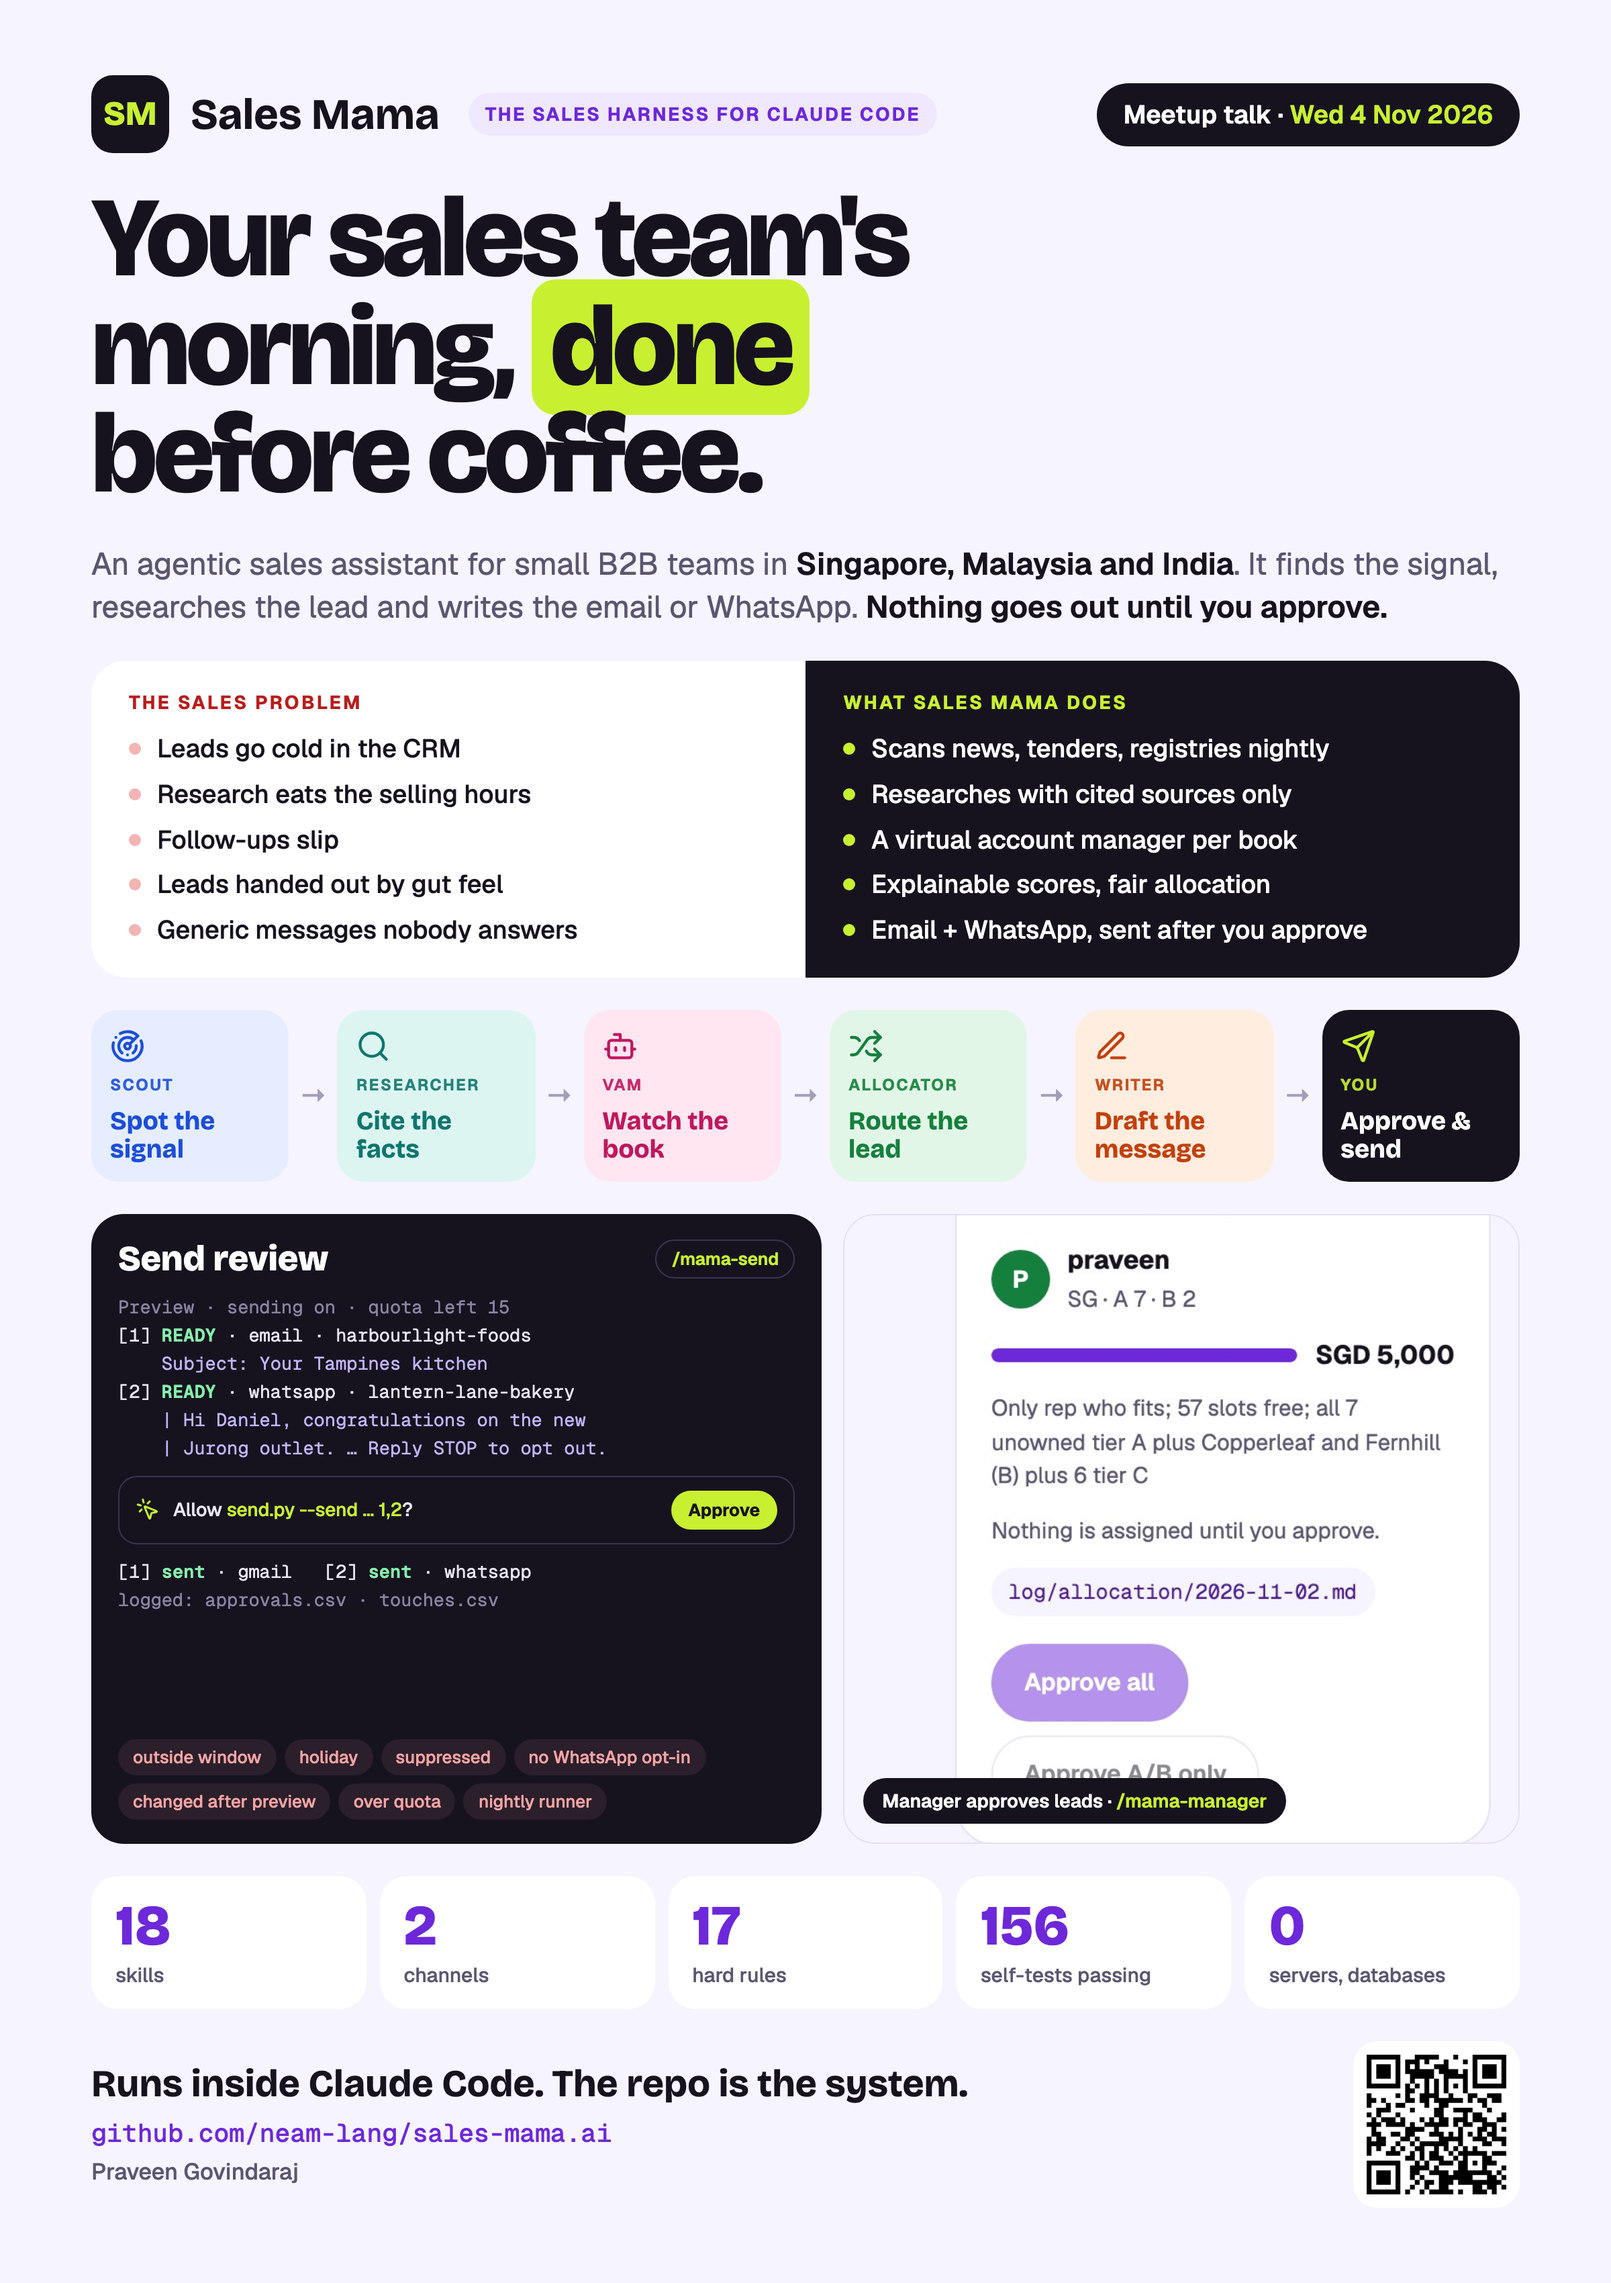
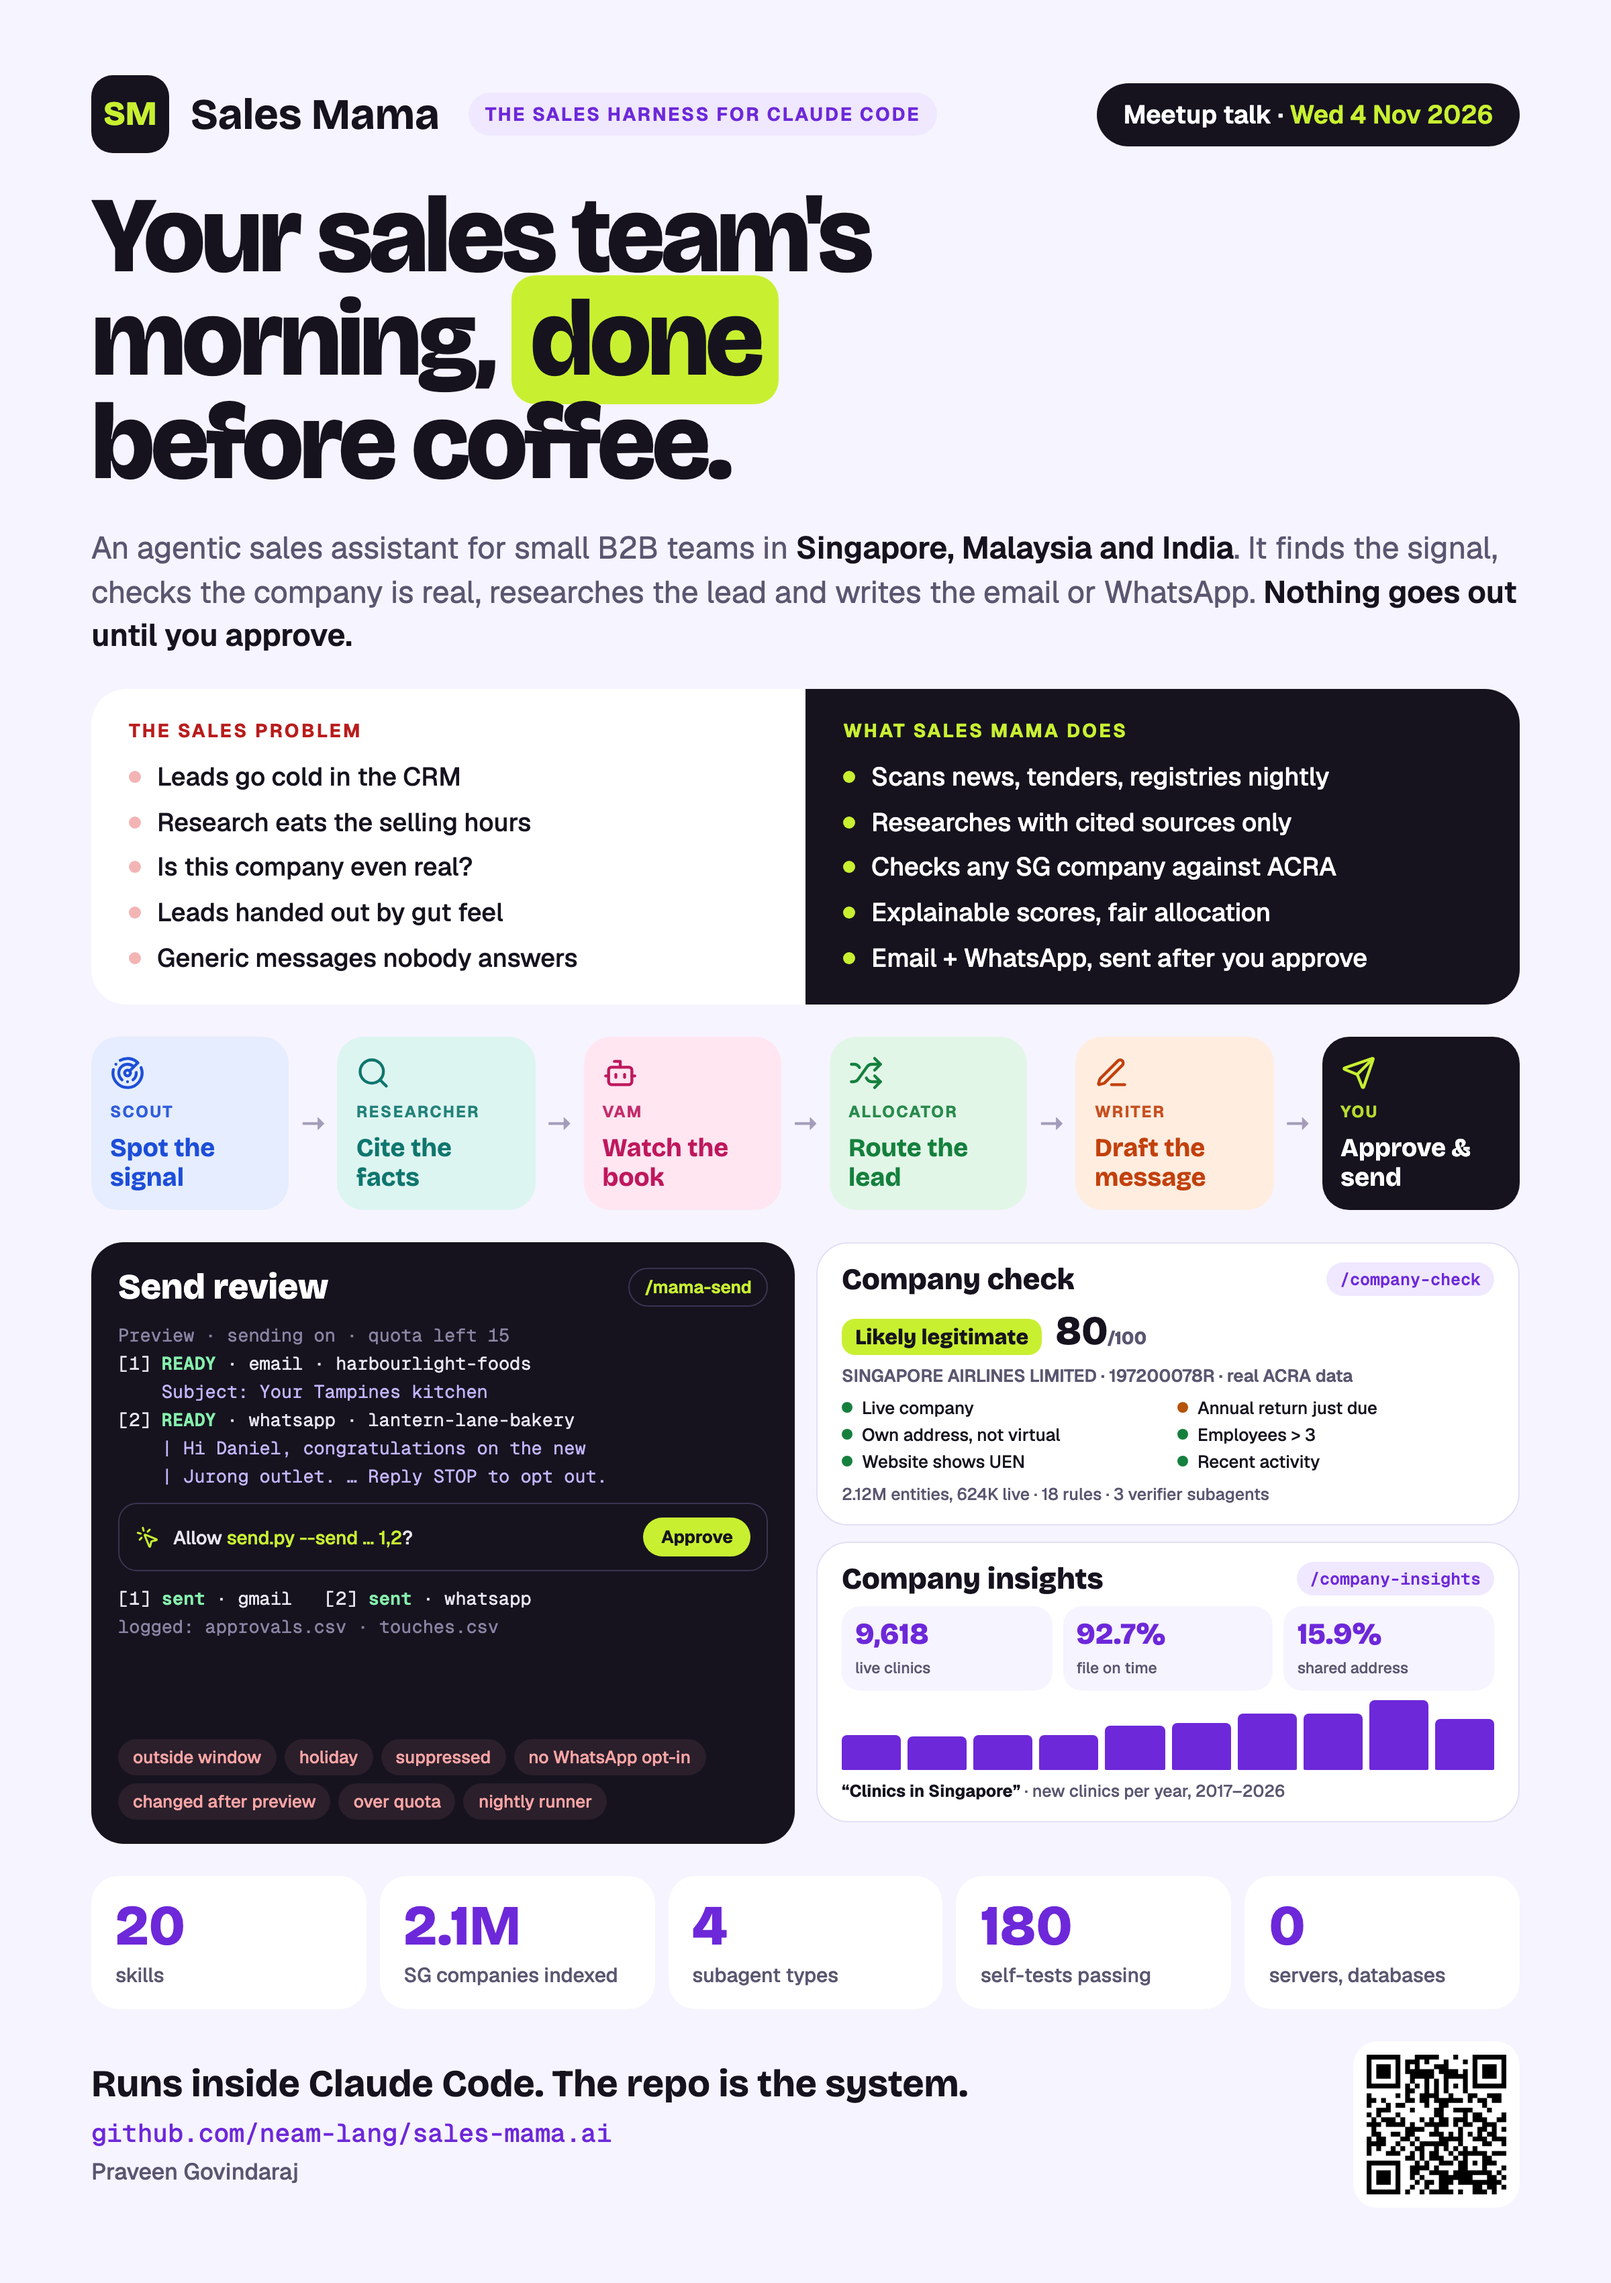
docs: poster with Company check and Company insights; remove README meetup section

diff --git a/docs/assets/src/poster.html b/docs/assets/src/poster.html
@@ -15,7 +15,7 @@
   .logo { width: 58px; height: 58px; border-radius: 16px; background: var(--ink); color: var(--lime); display: grid; place-items: center; font: 800 25px 'Bricolage Grotesque'; }
   .event { font: 600 19px Geist; padding: 11px 20px; border-radius: 999px; background: var(--ink); color: #fff; }
   .event b { color: var(--lime); font-weight: 600; }
-  h1 { font: 800 84px/0.96 'Bricolage Grotesque'; letter-spacing: -3px; }
+  h1 { font: 800 80px/0.96 'Bricolage Grotesque'; letter-spacing: -3px; }
   h1 .hl { background: var(--lime); padding: 0 14px; border-radius: 18px; }
   .sub { font: 400 23px/1.4 Geist; color: var(--muted); }
   .sub b { color: var(--ink); font-weight: 600; }
@@ -38,7 +38,25 @@
   .s3 { background: var(--vam-t); color: var(--vam); } .s4 { background: var(--alo-t); color: var(--alo); }
   .s5 { background: var(--wri-t); color: var(--wri); } .s6 { background: var(--ink); color: var(--lime); }
   .s6 .what { color: #fff; }
-  .feature { display: grid; grid-template-columns: 1.08fr 1fr; gap: 16px; flex: 1; min-height: 0; }
+  .feature { display: grid; grid-template-columns: 1fr 1fr; gap: 16px; flex: 1; min-height: 0; }
+  .stack { display: flex; flex-direction: column; gap: 12px; min-height: 0; overflow: hidden; }
+  .panel { background: #fff; border: 1px solid #E4DFF5; border-radius: 24px; padding: 14px 18px; display: flex; flex-direction: column; gap: 7px; }
+  .panel .t { display: flex; justify-content: space-between; align-items: center; }
+  .panel .t b { font: 800 22px 'Bricolage Grotesque'; }
+  .panel .t span { font: 600 12.5px 'Geist Mono'; color: var(--mama); background: var(--mama-t); padding: 4px 10px; border-radius: 999px; }
+  .vrow { display: flex; align-items: baseline; gap: 10px; }
+  .vbadge { font: 800 16px 'Bricolage Grotesque'; background: var(--lime); padding: 4px 10px; border-radius: 10px; }
+  .vscore { font: 800 30px 'Bricolage Grotesque'; } .vscore small { font-size: 14px; color: var(--muted); }
+  .vname { font: 600 13px Geist; color: var(--muted); }
+  .checks { display: grid; grid-template-columns: 1fr 1fr; gap: 3px 14px; font: 500 13px Geist; }
+  .checks span { display: flex; align-items: center; gap: 7px; }
+  .checks i { width: 8px; height: 8px; border-radius: 50%; flex: none; }
+  .meta { font: 500 12.5px Geist; color: var(--muted); }
+  .kpis { display: grid; grid-template-columns: repeat(3, 1fr); gap: 8px; }
+  .kpi { background: var(--ground); border-radius: 14px; padding: 8px 10px; }
+  .kpi b { display: block; font: 800 22px 'Bricolage Grotesque'; color: var(--mama); } .kpi small { font: 500 11.5px Geist; color: var(--muted); }
+  .bars { display: flex; align-items: flex-end; gap: 5px; height: 52px; }
+  .bars i { flex: 1; background: var(--mama); border-radius: 4px 4px 1px 1px; }
   .term { background: var(--ink); border-radius: 24px; padding: 18px 20px; display: flex; flex-direction: column; gap: 10px; overflow: hidden; color: #E9E6F2; }
   .term .t { display: flex; align-items: center; justify-content: space-between; }
   .term .t b { font: 800 26px 'Bricolage Grotesque'; color: #fff; }
@@ -75,16 +93,16 @@
   <h1>Your sales team's<br>morning, <span class="hl">done</span><br>before coffee.</h1>
 
   <p class="sub">An agentic sales assistant for small B2B teams in <b>Singapore, Malaysia and India</b>.
-    It finds the signal, researches the lead and writes the email or WhatsApp. <b>Nothing goes out until you approve.</b></p>
+    It finds the signal, checks the company is real, researches the lead and writes the email or WhatsApp. <b>Nothing goes out until you approve.</b></p>
 
   <div class="vs">
     <div class="pain">
       <h3>The sales problem</h3>
-      <ul><li>Leads go cold in the CRM</li><li>Research eats the selling hours</li><li>Follow-ups slip</li><li>Leads handed out by gut feel</li><li>Generic messages nobody answers</li></ul>
+      <ul><li>Leads go cold in the CRM</li><li>Research eats the selling hours</li><li>Is this company even real?</li><li>Leads handed out by gut feel</li><li>Generic messages nobody answers</li></ul>
     </div>
     <div class="fix">
       <h3>What Sales Mama does</h3>
-      <ul><li>Scans news, tenders, registries nightly</li><li>Researches with cited sources only</li><li>A virtual account manager per book</li><li>Explainable scores, fair allocation</li><li>Email + WhatsApp, sent after you approve</li></ul>
+      <ul><li>Scans news, tenders, registries nightly</li><li>Researches with cited sources only</li><li>Checks any SG company against ACRA</li><li>Explainable scores, fair allocation</li><li>Email + WhatsApp, sent after you approve</li></ul>
     </div>
   </div>
 
@@ -134,14 +152,32 @@
 <span class="m">logged: approvals.csv · touches.csv</span></pre>
       <div class="chips"><span class="chip">outside window</span><span class="chip">holiday</span><span class="chip">suppressed</span><span class="chip">no WhatsApp opt-in</span><span class="chip">changed after preview</span><span class="chip">over quota</span><span class="chip">nightly runner</span></div>
     </div>
-    <div class="shot"><img src="../screens/mobile-manager.jpg" alt=""><span class="tag">Manager approves leads · <b>/mama-manager</b></span></div>
+    <div class="stack">
+      <div class="panel">
+        <div class="t"><b>Company check</b><span>/company-check</span></div>
+        <div class="vrow"><span class="vbadge">Likely legitimate</span><span class="vscore">80<small>/100</small></span></div>
+        <div class="vname">SINGAPORE AIRLINES LIMITED · 197200078R · real ACRA data</div>
+        <div class="checks">
+          <span><i style="background:#15803D"></i>Live company</span><span><i style="background:#B45309"></i>Annual return just due</span>
+          <span><i style="background:#15803D"></i>Own address, not virtual</span><span><i style="background:#15803D"></i>Employees &gt; 3</span>
+          <span><i style="background:#15803D"></i>Website shows UEN</span><span><i style="background:#15803D"></i>Recent activity</span>
+        </div>
+        <div class="meta">2.12M entities, 624K live · 18 rules · 3 verifier subagents</div>
+      </div>
+      <div class="panel">
+        <div class="t"><b>Company insights</b><span>/company-insights</span></div>
+        <div class="kpis"><div class="kpi"><b>9,618</b><small>live clinics</small></div><div class="kpi"><b>92.7%</b><small>file on time</small></div><div class="kpi"><b>15.9%</b><small>shared address</small></div></div>
+        <div class="bars" role="img" aria-label="New clinics per year 2017 to 2026"><i style="height:49%"></i><i style="height:47%"></i><i style="height:50%"></i><i style="height:50%"></i><i style="height:64%"></i><i style="height:68%"></i><i style="height:81%"></i><i style="height:81%"></i><i style="height:100%"></i><i style="height:73%"></i></div>
+        <div class="meta"><b style="color:var(--ink)">“Clinics in Singapore”</b> · new clinics per year, 2017–2026</div>
+      </div>
+    </div>
   </div>
 
   <div class="stats">
-    <div class="stat"><div class="n">18</div><div class="l">skills</div></div>
-    <div class="stat"><div class="n">2</div><div class="l">channels</div></div>
-    <div class="stat"><div class="n">17</div><div class="l">hard rules</div></div>
-    <div class="stat"><div class="n">156</div><div class="l">self-tests passing</div></div>
+    <div class="stat"><div class="n">20</div><div class="l">skills</div></div>
+    <div class="stat"><div class="n">2.1M</div><div class="l">SG companies indexed</div></div>
+    <div class="stat"><div class="n">4</div><div class="l">subagent types</div></div>
+    <div class="stat"><div class="n">180</div><div class="l">self-tests passing</div></div>
     <div class="stat"><div class="n">0</div><div class="l">servers, databases</div></div>
   </div>
 

diff --git a/README.md b/README.md
@@ -233,26 +233,6 @@ Every pilot mistake becomes a failing eval case before it is fixed.
 
 </details>
 
-## 📣 Meetup
-
-<table>
-<tr>
-<td width="34%"><a href="docs/assets/poster.png"><img src="docs/assets/poster.png" alt="Meetup poster"></a></td>
-<td valign="top">
-
-**Your sales team's morning, done before coffee**<br>
-Wed 4 Nov 2026 · Praveen Govindaraj
-
-1. The small-team sales problem
-2. The repo is the system
-3. Live: approve leads, run the day, review and send
-4. Guardrails that hold
-5. Pilot to three markets
-
-</td>
-</tr>
-</table>
-
 ## 📚 Docs
 
 [GUIDE](GUIDE.md) · [PLAN](PLAN.md) · [SETUP](SETUP.md) · [AGENTS](AGENTS.md) · [UI](docs/UI.md) · [SECURITY](docs/SECURITY.md) · [ADRs](docs/adr/)
